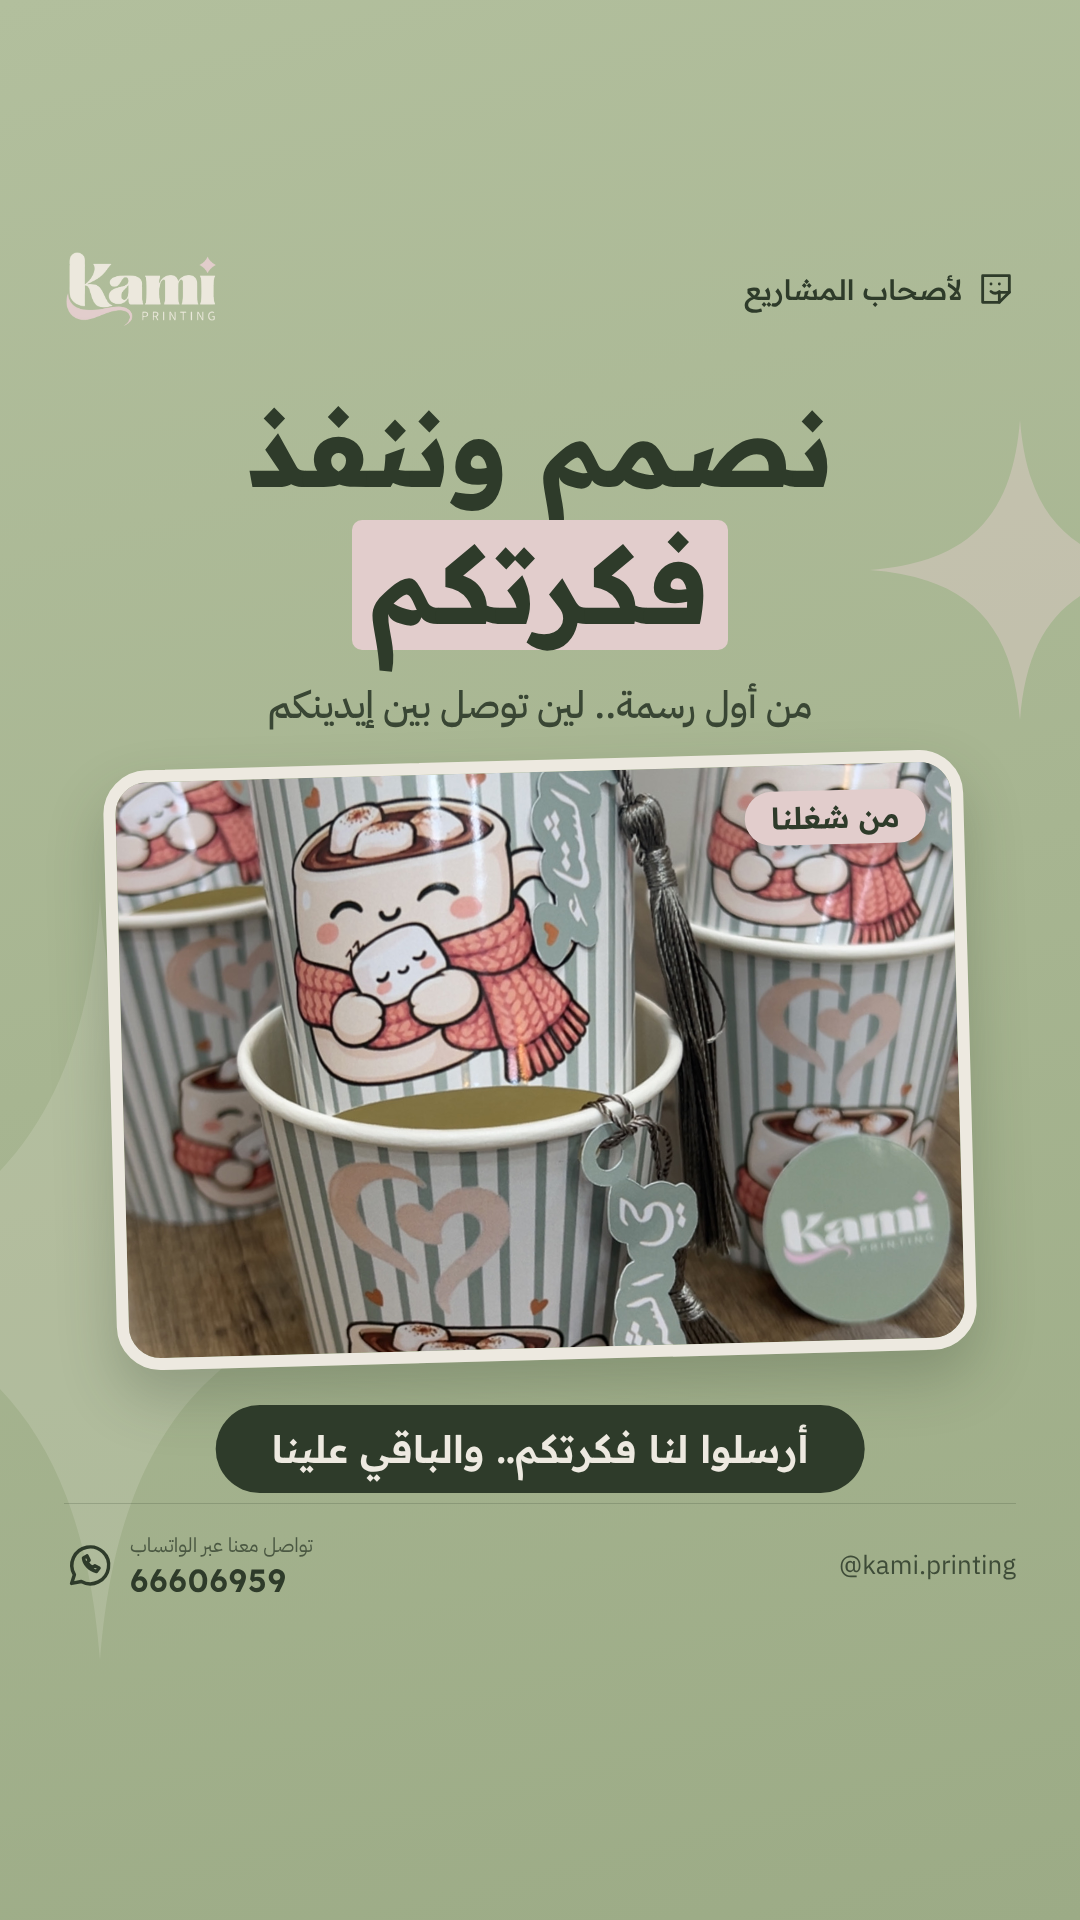
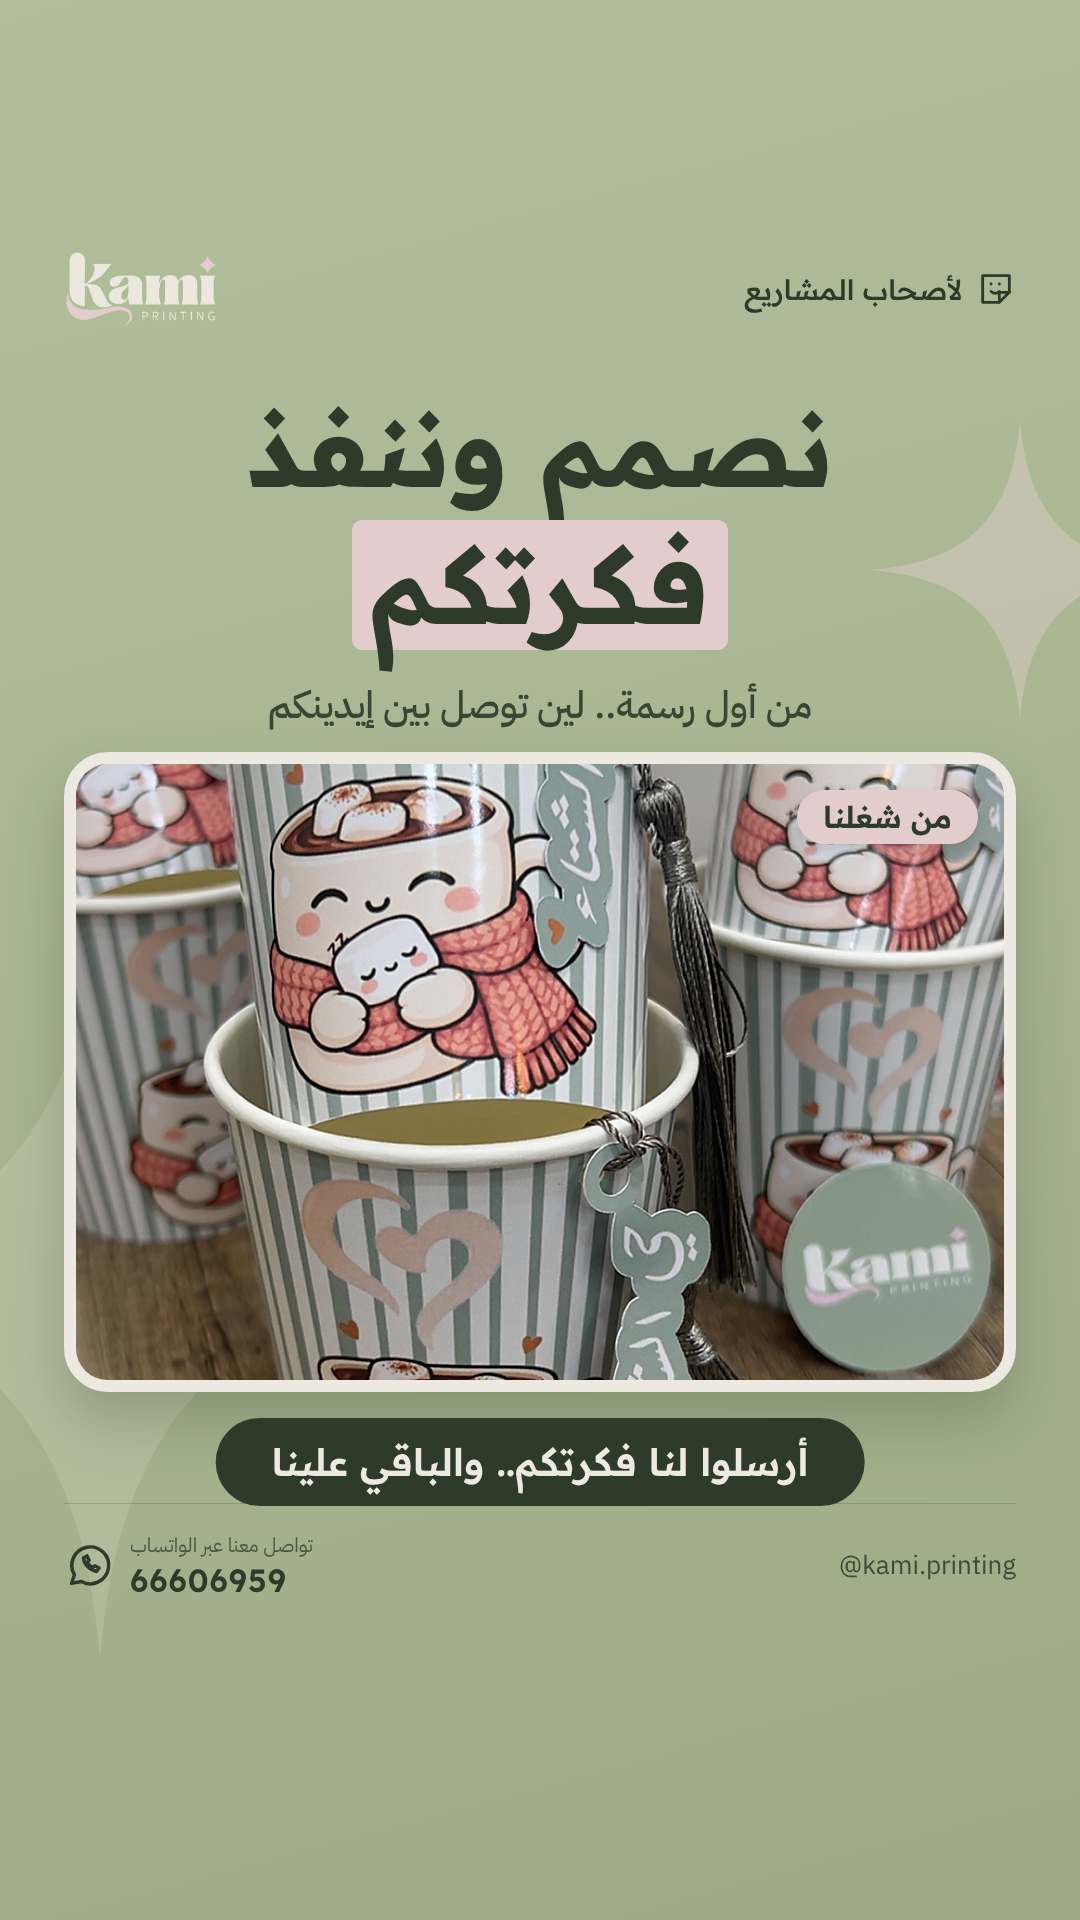
Story for business owners: sharper photo, no tilt, bigger frame (تعديل 1)
Claude-Session: https://claude.ai/code/session_01EDga3ExHWSoRVjSYima4hU

Changed region(s): [[0.0611, 0.375, 0.9472, 0.7812]]

diff --git a/templates/project-story.html b/templates/project-story.html
@@ -90,12 +90,12 @@ h2.ent{font-size:52px}
 .story .txt{position:absolute;left:64px;right:64px;top:380px;text-align:center}
 .story h1{font-size:104px;font-weight:700;line-height:1.32;margin:0}
 .story .cap{margin-top:22px;color:#394634;font-size:38px;font-weight:500}
-.story .frame{position:absolute;left:110px;right:110px;top:760px;height:600px;border-radius:44px;overflow:hidden;
-  border:12px solid var(--cream);box-shadow:0 28px 56px rgba(46,59,42,.25);transform:rotate(-1.5deg)}
-.story .frame img{width:100%;height:100%;object-fit:cover;object-position:50% 52%;display:block}
+.story .frame{position:absolute;left:64px;right:64px;top:752px;height:640px;border-radius:44px;overflow:hidden;
+  border:12px solid var(--cream);box-shadow:0 28px 56px rgba(46,59,42,.25)}
+.story .frame img{width:928px;height:616px;display:block}
 .story .badge{position:absolute;right:26px;top:26px;background:var(--blush);color:var(--forest);font-weight:600;
   font-size:30px;padding:8px 26px;border-radius:30px;box-shadow:0 6px 14px rgba(46,59,42,.18)}
-.story .cta{position:absolute;left:50%;transform:translateX(-50%);top:1405px;white-space:nowrap;background:var(--forest);
+.story .cta{position:absolute;left:50%;transform:translateX(-50%);top:1418px;white-space:nowrap;background:var(--forest);
   color:var(--cream);font-weight:600;font-size:38px;padding:20px 56px;border-radius:60px}
 .story footer{bottom:320px}
 </style></head><body><svg width="0" height="0" style="position:absolute"><defs>
@@ -129,7 +129,7 @@ h2.ent{font-size:52px}
     <h1>نصمم وننفذ<br><span class="hl">فكرتكم</span></h1>
     <div class="cap">من أول رسمة.. لين توصل بين إيدينكم</div>
   </div>
-  <div class="frame"><img src="photos/stories/winter-cups.jpg"><span class="badge">من شغلنا</span></div>
+  <div class="frame"><img src="photos/stories/winter-cups-frame.jpg"><span class="badge">من شغلنا</span></div>
   <div class="cta">أرسلوا لنا فكرتكم.. والباقي علينا</div>
   <footer><div class="fw"><svg class="fwi"><use href="#wa"/></svg><div><small>تواصل معنا عبر الواتساب</small><b>66606959</b></div></div>
   <div class="fr"><span class="h">@kami.printing</span></div></footer>

diff --git a/templates/project_story.py b/templates/project_story.py
@@ -15,6 +15,17 @@ exec(compile(src, 'carousels.py', 'exec'), ns)
 os.chdir(cwd)
 hl, icon = ns['hl'], ns['icon']
 
+# Pre-crop the photo to the exact frame size (928x616 inside the 12px border) with Lanczos + light sharpening,
+# so the browser shows it 1:1 instead of resampling it (that made it soft).
+from PIL import Image, ImageFilter
+FW, FH, FOCUS_Y = 928, 616, 0.52
+im = Image.open(os.path.join(HERE, 'photos/stories/winter-cups.jpg')).convert('RGB')
+k = max(FW / im.width, FH / im.height)
+im = im.resize((round(im.width * k), round(im.height * k)), Image.LANCZOS)
+top = round((im.height - FH) * FOCUS_Y); left = (im.width - FW) // 2
+im = im.crop((left, top, left + FW, top + FH)).filter(ImageFilter.UnsharpMask(radius=1.2, percent=70, threshold=2))
+im.save(os.path.join(HERE, 'photos/stories/winter-cups-frame.jpg'), quality=96, subsampling=0)
+
 STORY = f'''<section class="post story" id="story-projects-01">
   <svg class="wm"><use href="#star"/></svg><svg class="wm2"><use href="#star"/></svg>
   <header><img src="../brand/logo-en-cream.png"><div class="chip">{icon("sticker")}<span>لأصحاب المشاريع</span></div></header>
@@ -22,7 +33,7 @@ STORY = f'''<section class="post story" id="story-projects-01">
     <h1>نصمم وننفذ<br>{hl("[[فكرتكم]]")}</h1>
     <div class="cap">من أول رسمة.. لين توصل بين إيدينكم</div>
   </div>
-  <div class="frame"><img src="photos/stories/winter-cups.jpg"><span class="badge">من شغلنا</span></div>
+  <div class="frame"><img src="photos/stories/winter-cups-frame.jpg"><span class="badge">من شغلنا</span></div>
   <div class="cta">أرسلوا لنا فكرتكم.. والباقي علينا</div>
   <footer><div class="fw">{icon("wa", "fwi")}<div><small>تواصل معنا عبر الواتساب</small><b>66606959</b></div></div>
   <div class="fr"><span class="h">@kami.printing</span></div></footer>
@@ -37,12 +48,12 @@ CSS = ns['CSS'] + '''
 .story .txt{position:absolute;left:64px;right:64px;top:380px;text-align:center}
 .story h1{font-size:104px;font-weight:700;line-height:1.32;margin:0}
 .story .cap{margin-top:22px;color:#394634;font-size:38px;font-weight:500}
-.story .frame{position:absolute;left:110px;right:110px;top:760px;height:600px;border-radius:44px;overflow:hidden;
-  border:12px solid var(--cream);box-shadow:0 28px 56px rgba(46,59,42,.25);transform:rotate(-1.5deg)}
-.story .frame img{width:100%;height:100%;object-fit:cover;object-position:50% 52%;display:block}
+.story .frame{position:absolute;left:64px;right:64px;top:752px;height:640px;border-radius:44px;overflow:hidden;
+  border:12px solid var(--cream);box-shadow:0 28px 56px rgba(46,59,42,.25)}
+.story .frame img{width:928px;height:616px;display:block}
 .story .badge{position:absolute;right:26px;top:26px;background:var(--blush);color:var(--forest);font-weight:600;
   font-size:30px;padding:8px 26px;border-radius:30px;box-shadow:0 6px 14px rgba(46,59,42,.18)}
-.story .cta{position:absolute;left:50%;transform:translateX(-50%);top:1405px;white-space:nowrap;background:var(--forest);
+.story .cta{position:absolute;left:50%;transform:translateX(-50%);top:1418px;white-space:nowrap;background:var(--forest);
   color:var(--cream);font-weight:600;font-size:38px;padding:20px 56px;border-radius:60px}
 .story footer{bottom:320px}
 '''

diff --git a/فهرس-التصاميم.md b/فهرس-التصاميم.md
@@ -198,7 +198,7 @@
 | 09 | `09-التعاون` | كاروسيل التعاون |
 | 10 | `10-الأسئلة-الشائعة` | كاروسيل الأسئلة |
 | 11 | `11-مطبوعات-المشاريع` | 10 سلايدات: ستيكرات الشعار وUV، بطاقات الشكر، بزنس كارد، قصاصات قطنية، علب مطوية. بثيم القسم 1 (تعديل 1، 2026-11-17). المصدر `templates/packaging_carousel.py` |
-| 12 | `12-ستوري-أصحاب-المشاريع` | ستوري 1080×1920 لأصحاب المشاريع: «نصمم وننفذ فكرتكم» و«من أول رسمة.. لين توصل بين إيدينكم»، صورة أكواب الشتاء من شغلنا داخل إطار كريمي مع شارة «من شغلنا»، وزر «أرسلوا لنا فكرتكم.. والباقي علينا»، والواتساب تحت. المصدر `templates/project_story.py` |
+| 12 | `12-ستوري-أصحاب-المشاريع` (آخر نسخة: تعديل 1) | ستوري 1080×1920 لأصحاب المشاريع: «نصمم وننفذ فكرتكم» و«من أول رسمة.. لين توصل بين إيدينكم»، صورة أكواب الشتاء من شغلنا داخل إطار كريمي مع شارة «من شغلنا»، وزر «أرسلوا لنا فكرتكم.. والباقي علينا»، والواتساب تحت. المصدر `templates/project_story.py` |
 
 ### الريلز الجاهزة (`جاهز/`)
 كل ريل له فيديو وغلاف وغلاف للشبكة وكابشن. حقوق المقاطع في `حقوق المقاطع.txt`.
@@ -245,6 +245,7 @@
 ## 7. سجل التعديلات
 | التاريخ | التصميم | التعديل | المجلد |
 |---|---|---|---|
+| 2026-11-19 | ستوري أصحاب المشاريع | الصورة كانت مو واضحة: شلنا ميلان الإطار، وقصّينا الصورة على مقاس الإطار بالضبط مع تحديد خفيف، وكبّرنا الإطار (928×616) | `instagram/ready-to-post/12-ستوري-أصحاب-المشاريع/تعديل 1/01.png` |
 | 2026-11-19 | ستوري أصحاب المشاريع (جديد) | ستوري «نصمم وننفذ فكرتكم» لأصحاب المشاريع بصورة أكواب الشتاء الحقيقية، على ثيم القسم 1 والمحتوى بين y=250 وy=1600 | `instagram/ready-to-post/12-ستوري-أصحاب-المشاريع/01.png` |
 | 2026-11-19 | ستيكرات شتوية كريكت (جديد) | قصّينا صفحة الستيكرات الشتوية لـ48 ستيكر منفصل، كل واحد PNG بخلفية شفافة ومكبّر 4 مرات بدقة 300 DPI، جاهز للرفع في Cricut Design Space (Print Then Cut). الصفحة الأصلية في `المصدر\` | `ستيكرات شتوية كريكت\ستيكرات منفصلة PNG\` |
 | 2026-11-19 | الفهرس | نسخنا الفهرس للمستودع على GitHub، وأضفنا القسم 6 لتصاميم جلسات الكلاود (البوستات الجاهزة، الريلز، القوالب، الستيكرات، الموقع وقوقل) | `فهرس-التصاميم.md` |
